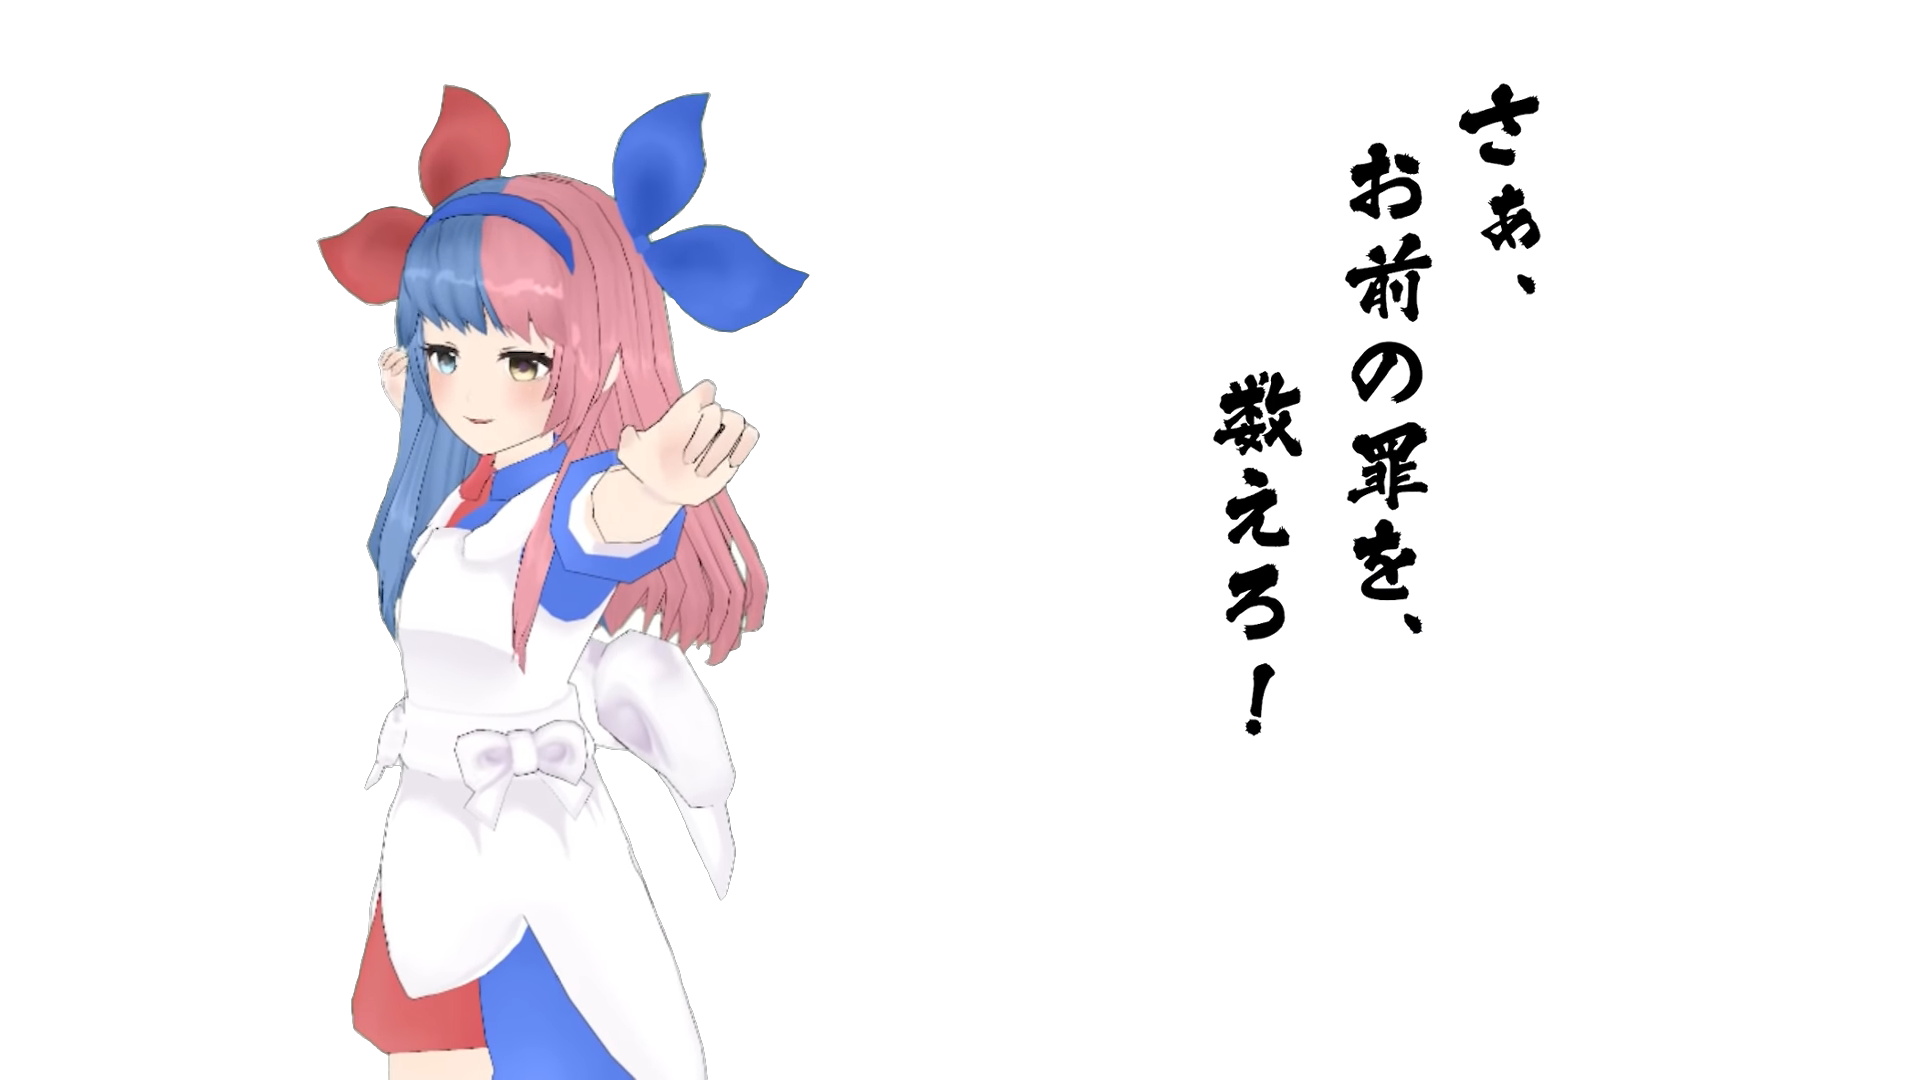
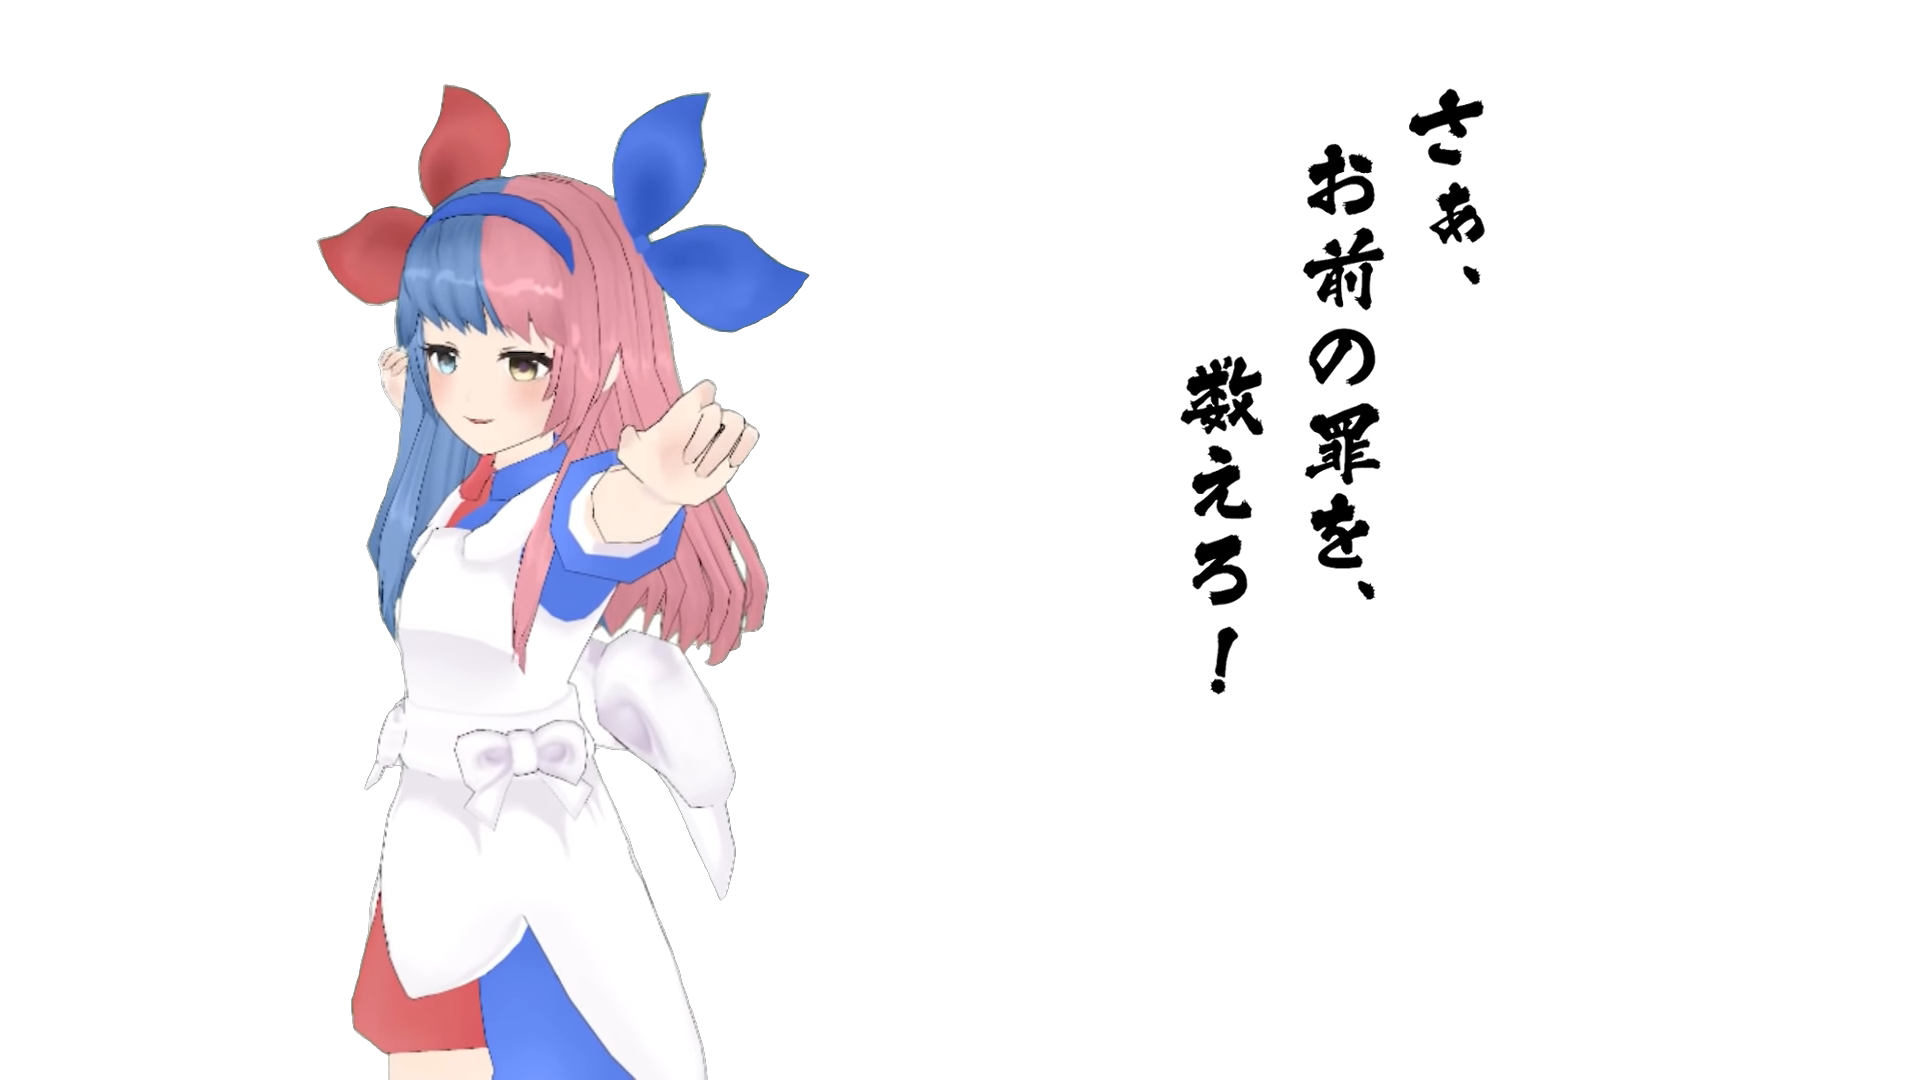
Adjust rayrio's position for narrow width device

Changed region(s): [[0.5938, 0.0611, 0.8125, 0.6722]]

diff --git a/assets/css/index.css b/assets/css/index.css
@@ -584,6 +584,20 @@ a:hover {
     linear-gradient(to left, #7995f7, #de7072);
   background-size: cover;
 }
+@media screen and (max-width: 1600px) {
+  .links.lucky {
+    background: url(../images/rayrio.narrow.001.png) top center no-repeat,
+      linear-gradient(to left, #7995f7, #de7072);
+    background-size: cover;
+  }
+}
+@media screen and (max-width: 768px) {
+  .links.lucky {
+    background: url(../images/rayrio.narrow.002.png) top center no-repeat,
+      linear-gradient(to left, #7995f7, #de7072);
+    background-size: cover;
+  }
+}
 
 .links a.omesis_ray:hover {
   color: #de7072;
